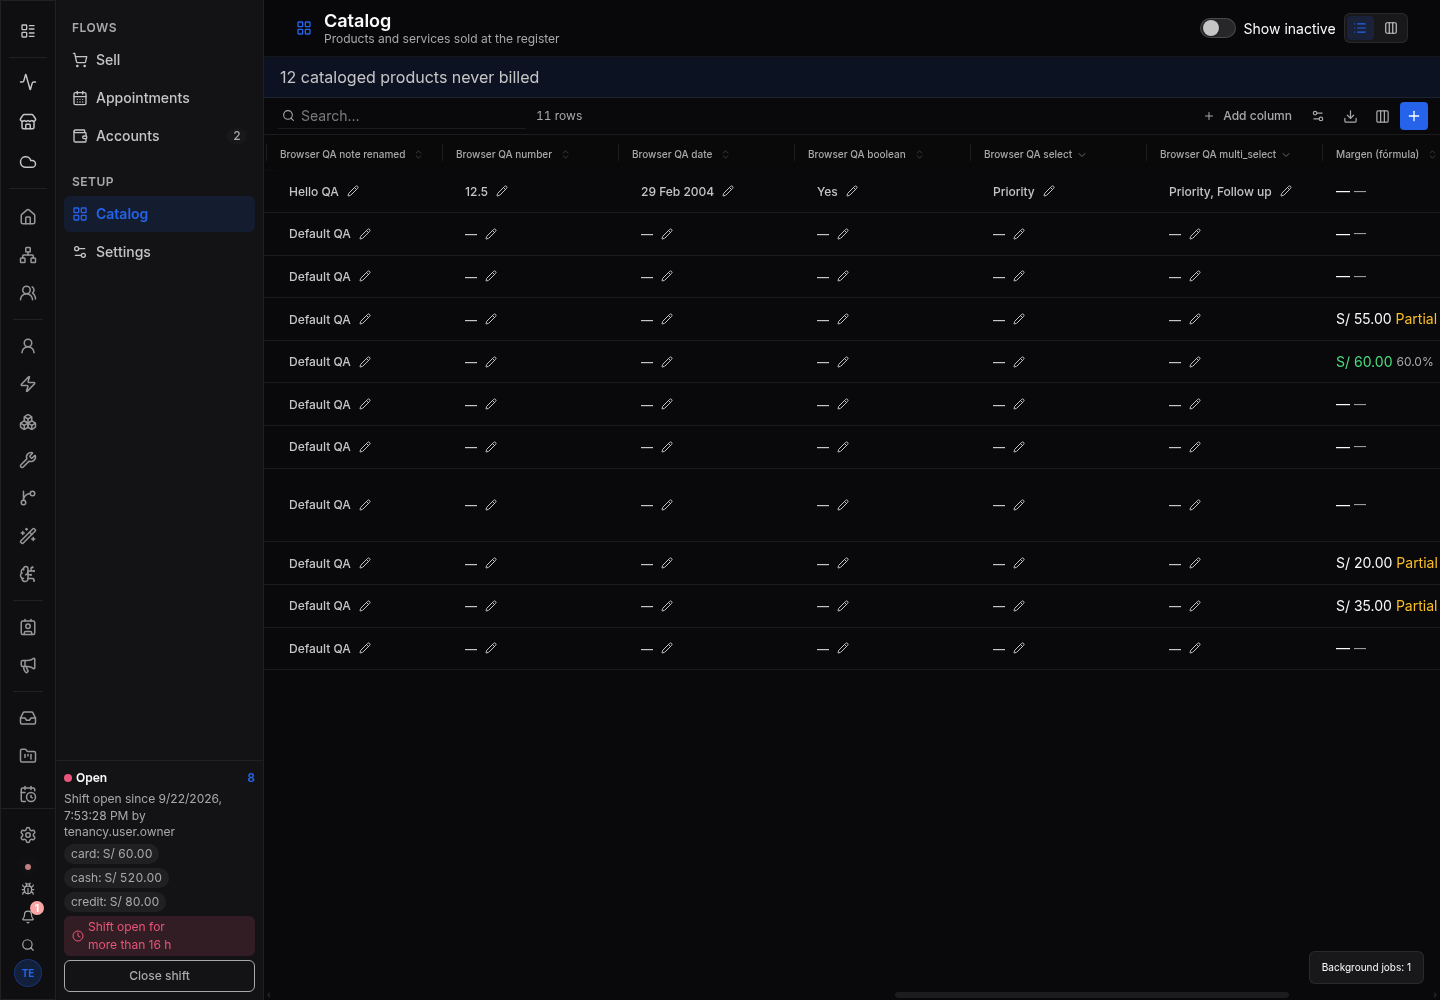
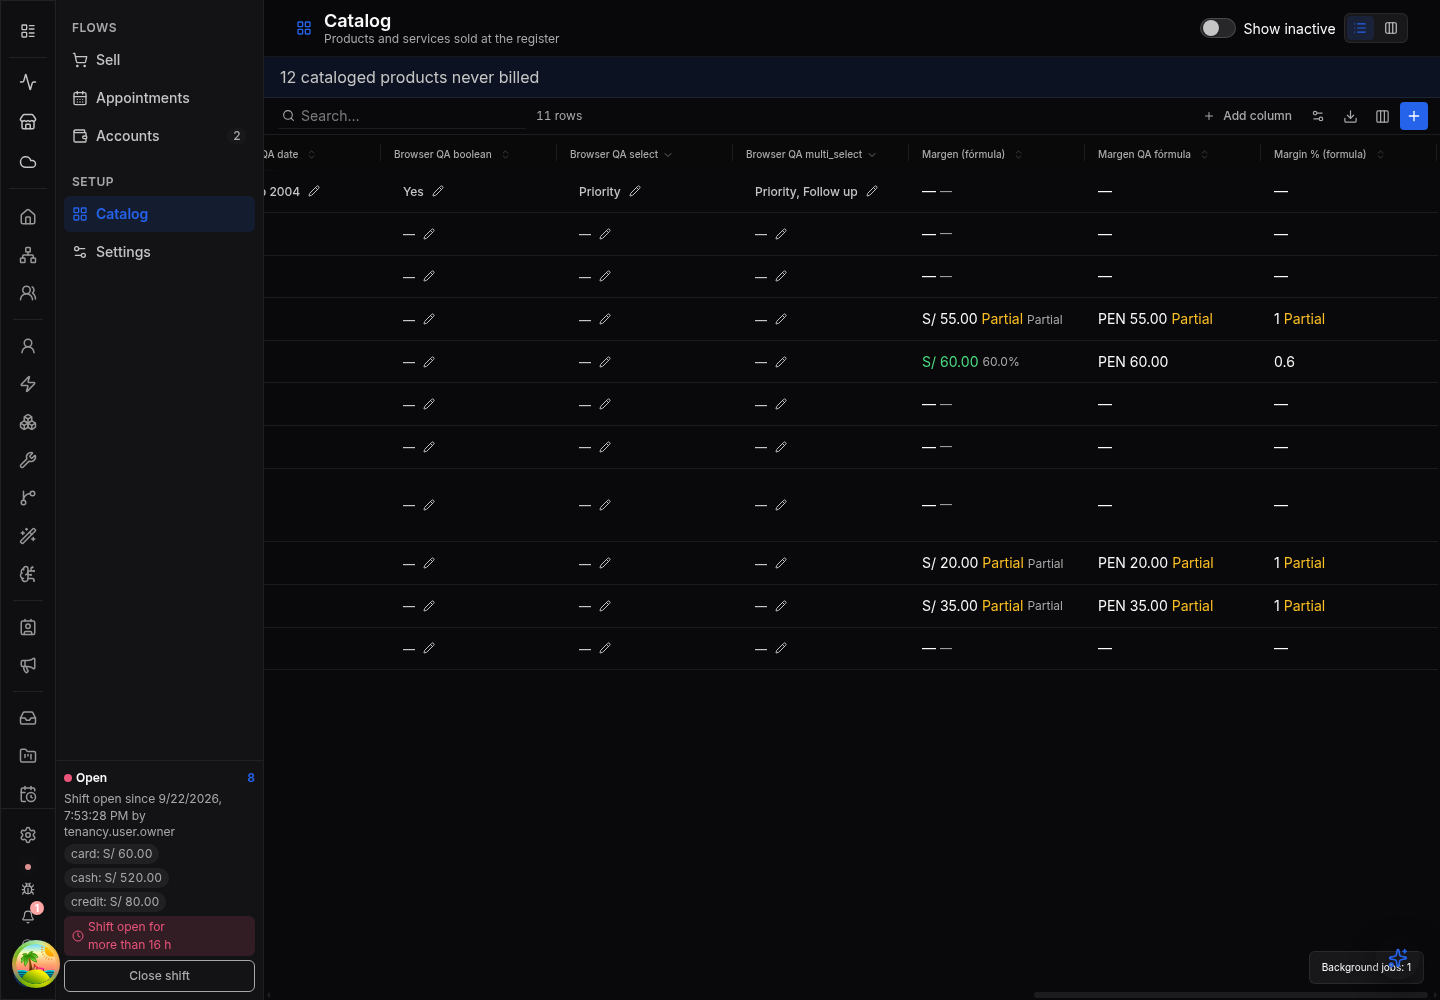
docs: record calculated column formatting release

diff --git a/specs/2026-09-27-hub-calculated-column-formatting-spec.md b/specs/2026-09-27-hub-calculated-column-formatting-spec.md
@@ -1,8 +1,8 @@
 ---
 id: 2026-09-27-hub-calculated-column-formatting-spec
 title: Calculated column presentation infrastructure
-stage: dev
-status: implementing
+stage: done
+status: shipped
 pass: 2
 verdict: approved
 created: 2026-09-27
@@ -60,3 +60,9 @@ Native/other-custom formatting admission, arbitrary threshold-expression colors,
 Prove strict request validation and persisted roundtrips, permission-aware projection and non-destructive restricted-manager writes, formatter compatibility and raw numeric behavior, and manager/cell browser save-reload behavior on seeded local QA. Run typecheck/build, design/token checks, independent Sol implementation review and hosted CI before release. Record exact deployed commit, production migration and optional targeted example outcomes separately.
 
 - Every explicit presentation create/update carries catalogRevision, which the server revalidates under the graph lock even when rules are omitted. This rejects a secondary whose type/sensitivity changes between catalog load and write. Unrelated omission-preserving updates do not acquire a new client revision requirement. The manager omits unchanged formula rules on presentation-only saves.
+
+## Release evidence
+
+Hub PR [393](https://github.com/NikolasP98/minion_hub/pull/393) merged as `72414eb7d1e5186142081d7fe29f87a5a3919c47` after independent Sol approval of head `4dd53490c02702399487e5dd2e8222b392b50ed8`, full CI, and seeded browser qualification. Production deployment `dpl_DnCGpPC63kXVjyKS5mhrgLSv7nZA` is READY on that merge SHA at `hub.minion-ai.org`; migration `20260927010000` applied successfully.
+
+The guarded example setup configured the existing FACES margin formula and created its ratio companion. Replay returned unchanged. The read-only comparison covered 84 authorized catalog rows: 35 complete matches, 0 differences, 43 blank, 6 partial, and 0 errors. Partial rows remain explicitly qualified. Evidence, final CI status, and screenshots are recorded in `audits/2026-09-27-hub-calculated-column-formatting/qualification.json` and sibling artifacts.

diff --git a/specs/2026-09-27-hub-calculated-column-formatting-spec.review.md b/specs/2026-09-27-hub-calculated-column-formatting-spec.review.md
@@ -21,3 +21,9 @@ Sol guardians_dob approved pass2 after freezing permission-aware projection acro
 ## Requirements and UI — approved
 
 Sol quick_add approved pass2 after requiring restricted-secondary metadata redaction and non-destructive unrelated saves. Numeric formula admission, reusable presentation metadata, currency/sign/secondary controls and local QA demonstration meet the requested scope. Native and other-custom column admission remain later work.
+
+## Implementation review
+
+Independent Sol reviewer guardians_dob approved exact Hub head `0796fd675fb92961fb8a8195957a1f66ed89bc01` after backend, UI, runtime and message-merge review. Browser qualification exercised persisted symbol/code, precision, caption, invalid-save prevention and reload. Hosted CI and deployment remain separate gates tracked in the qualification artifact. Backend agent independently approved the targeted example helper and HTTP qualification script.
+
+Final delta: the regression suite exposed repeated loads for an empty formula catalog. Successful empty responses and failures now remain settled until explicit retry, with in-flight deduplication. Independent Sol reviewer guardians_dob approved exact final head `4dd53490c02702399487e5dd2e8222b392b50ed8`; the 3-file component/formatter suite passed 11 tests, including exactly one request for an empty catalog.

diff --git a/proposals/2026-09-27-hub-calculated-column-formatting.md b/proposals/2026-09-27-hub-calculated-column-formatting.md
@@ -1,7 +1,7 @@
 ---
 id: 2026-09-27-hub-calculated-column-formatting
 title: Configurable formatting for calculated columns
-status: in-spec
+status: done
 created: 2026-09-27
 updated: 2026-09-27
 repos: [minion_hub]
